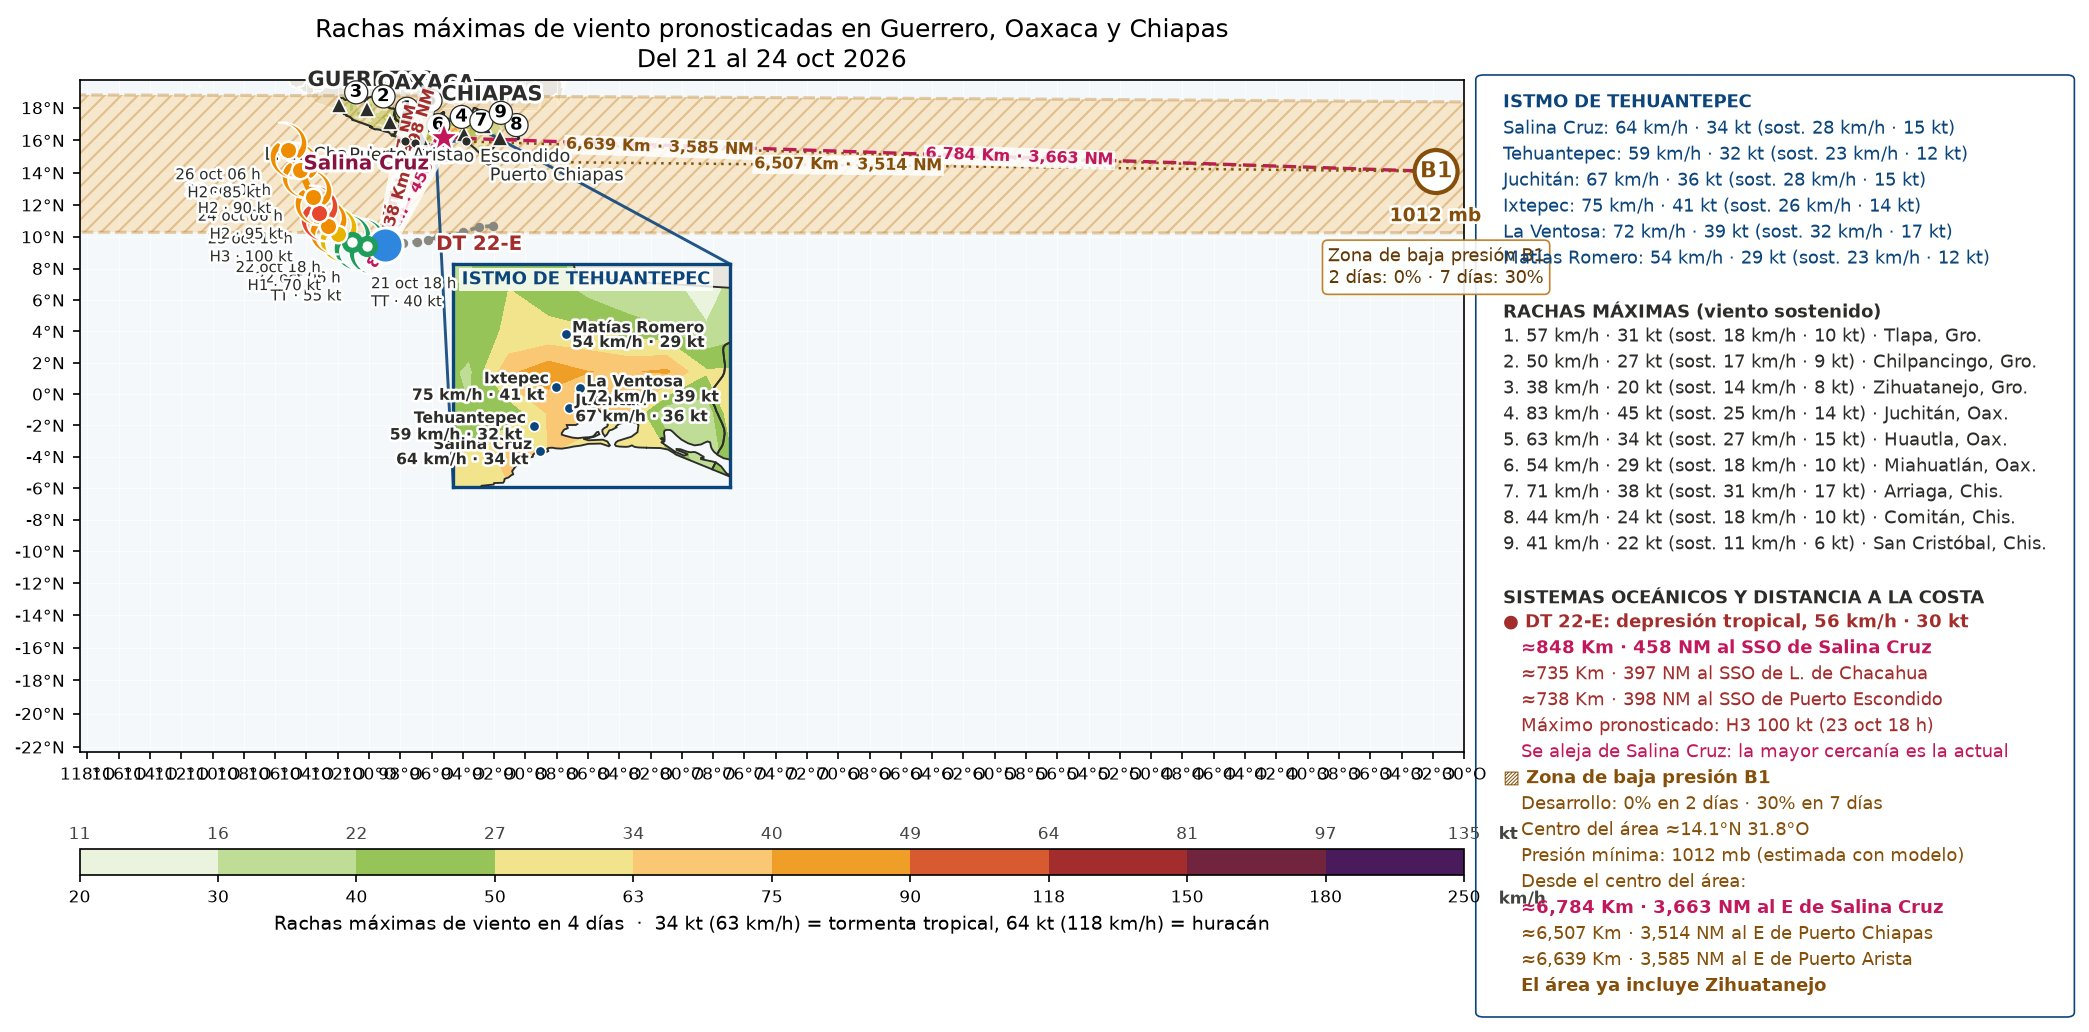
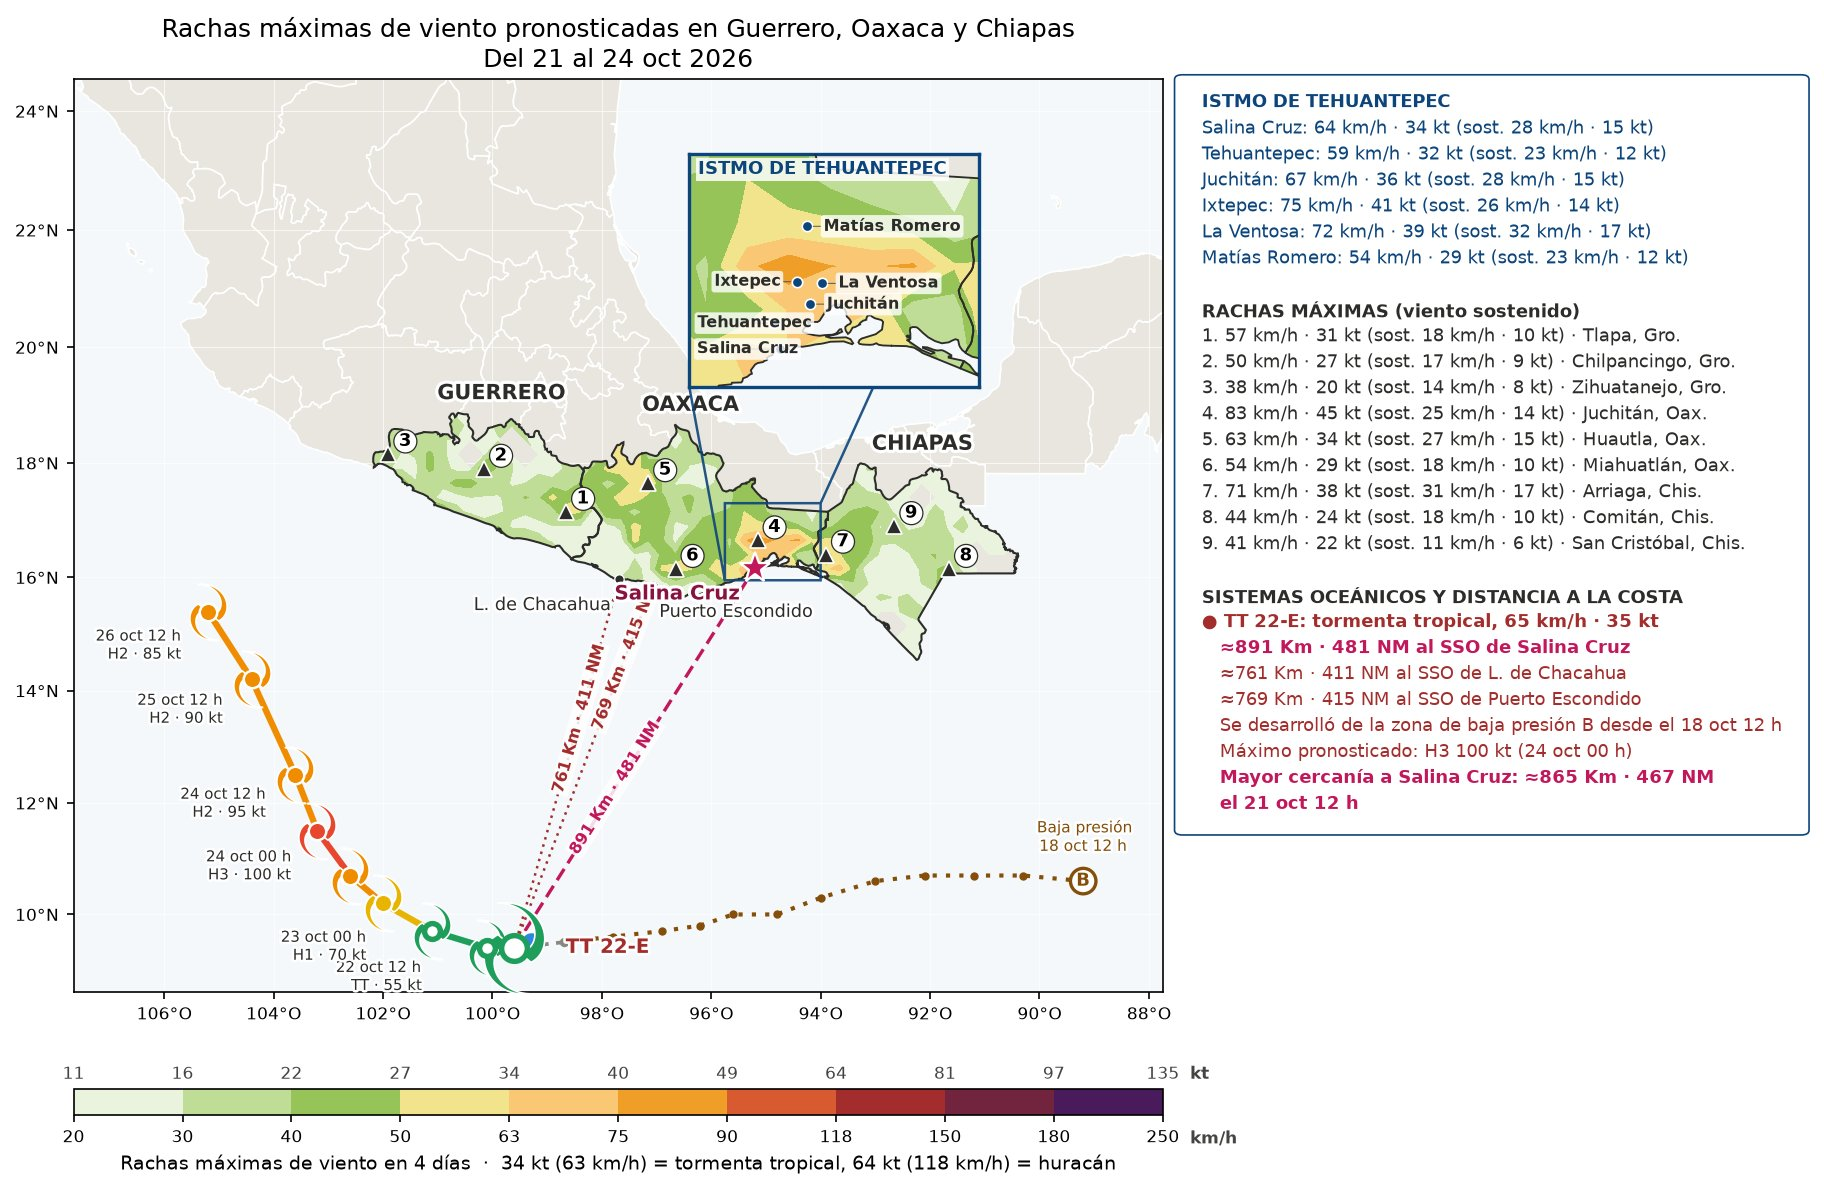
Monitor 21/10 12:47 (mapas nuevos)

diff --git a/index.html b/index.html
@@ -62,7 +62,7 @@ pre{overflow-x:auto;font-size:.75rem;background:var(--bg);padding:10px;border-ra
 <section class="t" id="sec_log"><details><summary>Registro (últimas líneas)</summary><pre id="log"></pre></details></section>
 </main>
 <div id="zoom"><img alt=""></div>
-<script id="datos" type="application/json">{"generado": "2026-10-21T12:27:03.413462", "ultima_revision": "2026-10-21T12:27:03.382795", "decision": "sin cambios", "ultima_imagen": "2026-10-21T11:09:36.695799", "motivo_imagen": "manual (--forzar)", "pendientes": [], "intervalo_h": 3, "resumen": {"ciclones": {"ep222026": {"nombre": "Twenty-Two-E", "kt": 30, "cat": "DT"}}, "zonas": [{"lat": 14.1, "lon": -31.8, "n": "1", "p2": 0, "p7": 30}]}, "historial": [{"fecha": "2026-10-20T17:13:39.559089", "motivo": "manual (--forzar)"}, {"fecha": "2026-10-20T17:39:54.487717", "motivo": "manual (--forzar)"}, {"fecha": "2026-10-20T17:45:41.837918", "motivo": "manual (--forzar)"}, {"fecha": "2026-10-20T17:52:21.020479", "motivo": "manual (--forzar)"}, {"fecha": "2026-10-20T18:27:13.446339", "motivo": "manual (--forzar)"}, {"fecha": "2026-10-20T18:41:26.135377", "motivo": "manual (--forzar)"}, {"fecha": "2026-10-20T18:51:11.782376", "motivo": "manual (--forzar)"}, {"fecha": "2026-10-20T22:00:47.413328", "motivo": "cambios acumulados en 3 h: modelo"}, {"fecha": "2026-10-21T01:07:16.707616", "motivo": "cambios acumulados en 3 h: zonas"}, {"fecha": "2026-10-21T04:20:30.390932", "motivo": "cambios acumulados en 3 h: modelo"}, {"fecha": "2026-10-21T07:27:16.278888", "motivo": "cambios acumulados en 3 h: zonas"}, {"fecha": "2026-10-21T08:50:23.611108", "motivo": "CAMBIO SIGNIFICATIVO: Twenty-Two-E entró a la jurisdicción (DT)"}, {"fecha": "2026-10-21T10:39:57.224515", "motivo": "manual (--forzar)"}, {"fecha": "2026-10-21T11:09:36.695799", "motivo": "manual (--forzar)"}], "imagenes": {"lluvia": {"src": "lluvia.jpg?v=202610211109", "fecha": "2026-10-21T11:09:32.568868"}, "viento": {"src": "viento.jpg?v=202610211109", "fecha": "2026-10-21T11:09:35.368786"}}, "log": [], "umbral_av": 50, "umbral_mal": 110}</script>
+<script id="datos" type="application/json">{"generado": "2026-10-21T12:47:14.203357", "ultima_revision": "2026-10-21T12:47:14.163333", "decision": "imágenes generadas", "ultima_imagen": "2026-10-21T12:47:14.163333", "motivo_imagen": "CAMBIO SIGNIFICATIVO: una zona de baja presión dejó de afectar la jurisdicción", "pendientes": [], "intervalo_h": 3, "resumen": {"ciclones": {"ep222026": {"nombre": "Twenty-Two-E", "kt": 30, "cat": "DT"}}, "zonas": []}, "historial": [{"fecha": "2026-10-20T17:13:39.559089", "motivo": "manual (--forzar)"}, {"fecha": "2026-10-20T17:39:54.487717", "motivo": "manual (--forzar)"}, {"fecha": "2026-10-20T17:45:41.837918", "motivo": "manual (--forzar)"}, {"fecha": "2026-10-20T17:52:21.020479", "motivo": "manual (--forzar)"}, {"fecha": "2026-10-20T18:27:13.446339", "motivo": "manual (--forzar)"}, {"fecha": "2026-10-20T18:41:26.135377", "motivo": "manual (--forzar)"}, {"fecha": "2026-10-20T18:51:11.782376", "motivo": "manual (--forzar)"}, {"fecha": "2026-10-20T22:00:47.413328", "motivo": "cambios acumulados en 3 h: modelo"}, {"fecha": "2026-10-21T01:07:16.707616", "motivo": "cambios acumulados en 3 h: zonas"}, {"fecha": "2026-10-21T04:20:30.390932", "motivo": "cambios acumulados en 3 h: modelo"}, {"fecha": "2026-10-21T07:27:16.278888", "motivo": "cambios acumulados en 3 h: zonas"}, {"fecha": "2026-10-21T08:50:23.611108", "motivo": "CAMBIO SIGNIFICATIVO: Twenty-Two-E entró a la jurisdicción (DT)"}, {"fecha": "2026-10-21T10:39:57.224515", "motivo": "manual (--forzar)"}, {"fecha": "2026-10-21T11:09:36.695799", "motivo": "manual (--forzar)"}, {"fecha": "2026-10-21T12:47:14.163333", "motivo": "CAMBIO SIGNIFICATIVO: una zona de baja presión dejó de afectar la jurisdicción"}], "imagenes": {"lluvia": {"src": "lluvia.jpg?v=202610211247", "fecha": "2026-10-21T12:47:07.732274"}, "viento": {"src": "viento.jpg?v=202610211247", "fecha": "2026-10-21T12:47:12.426075"}}, "log": [], "umbral_av": 50, "umbral_mal": 110}</script>
 <script>
 const D = JSON.parse(document.getElementById("datos").textContent);
 const $ = id => document.getElementById(id);
